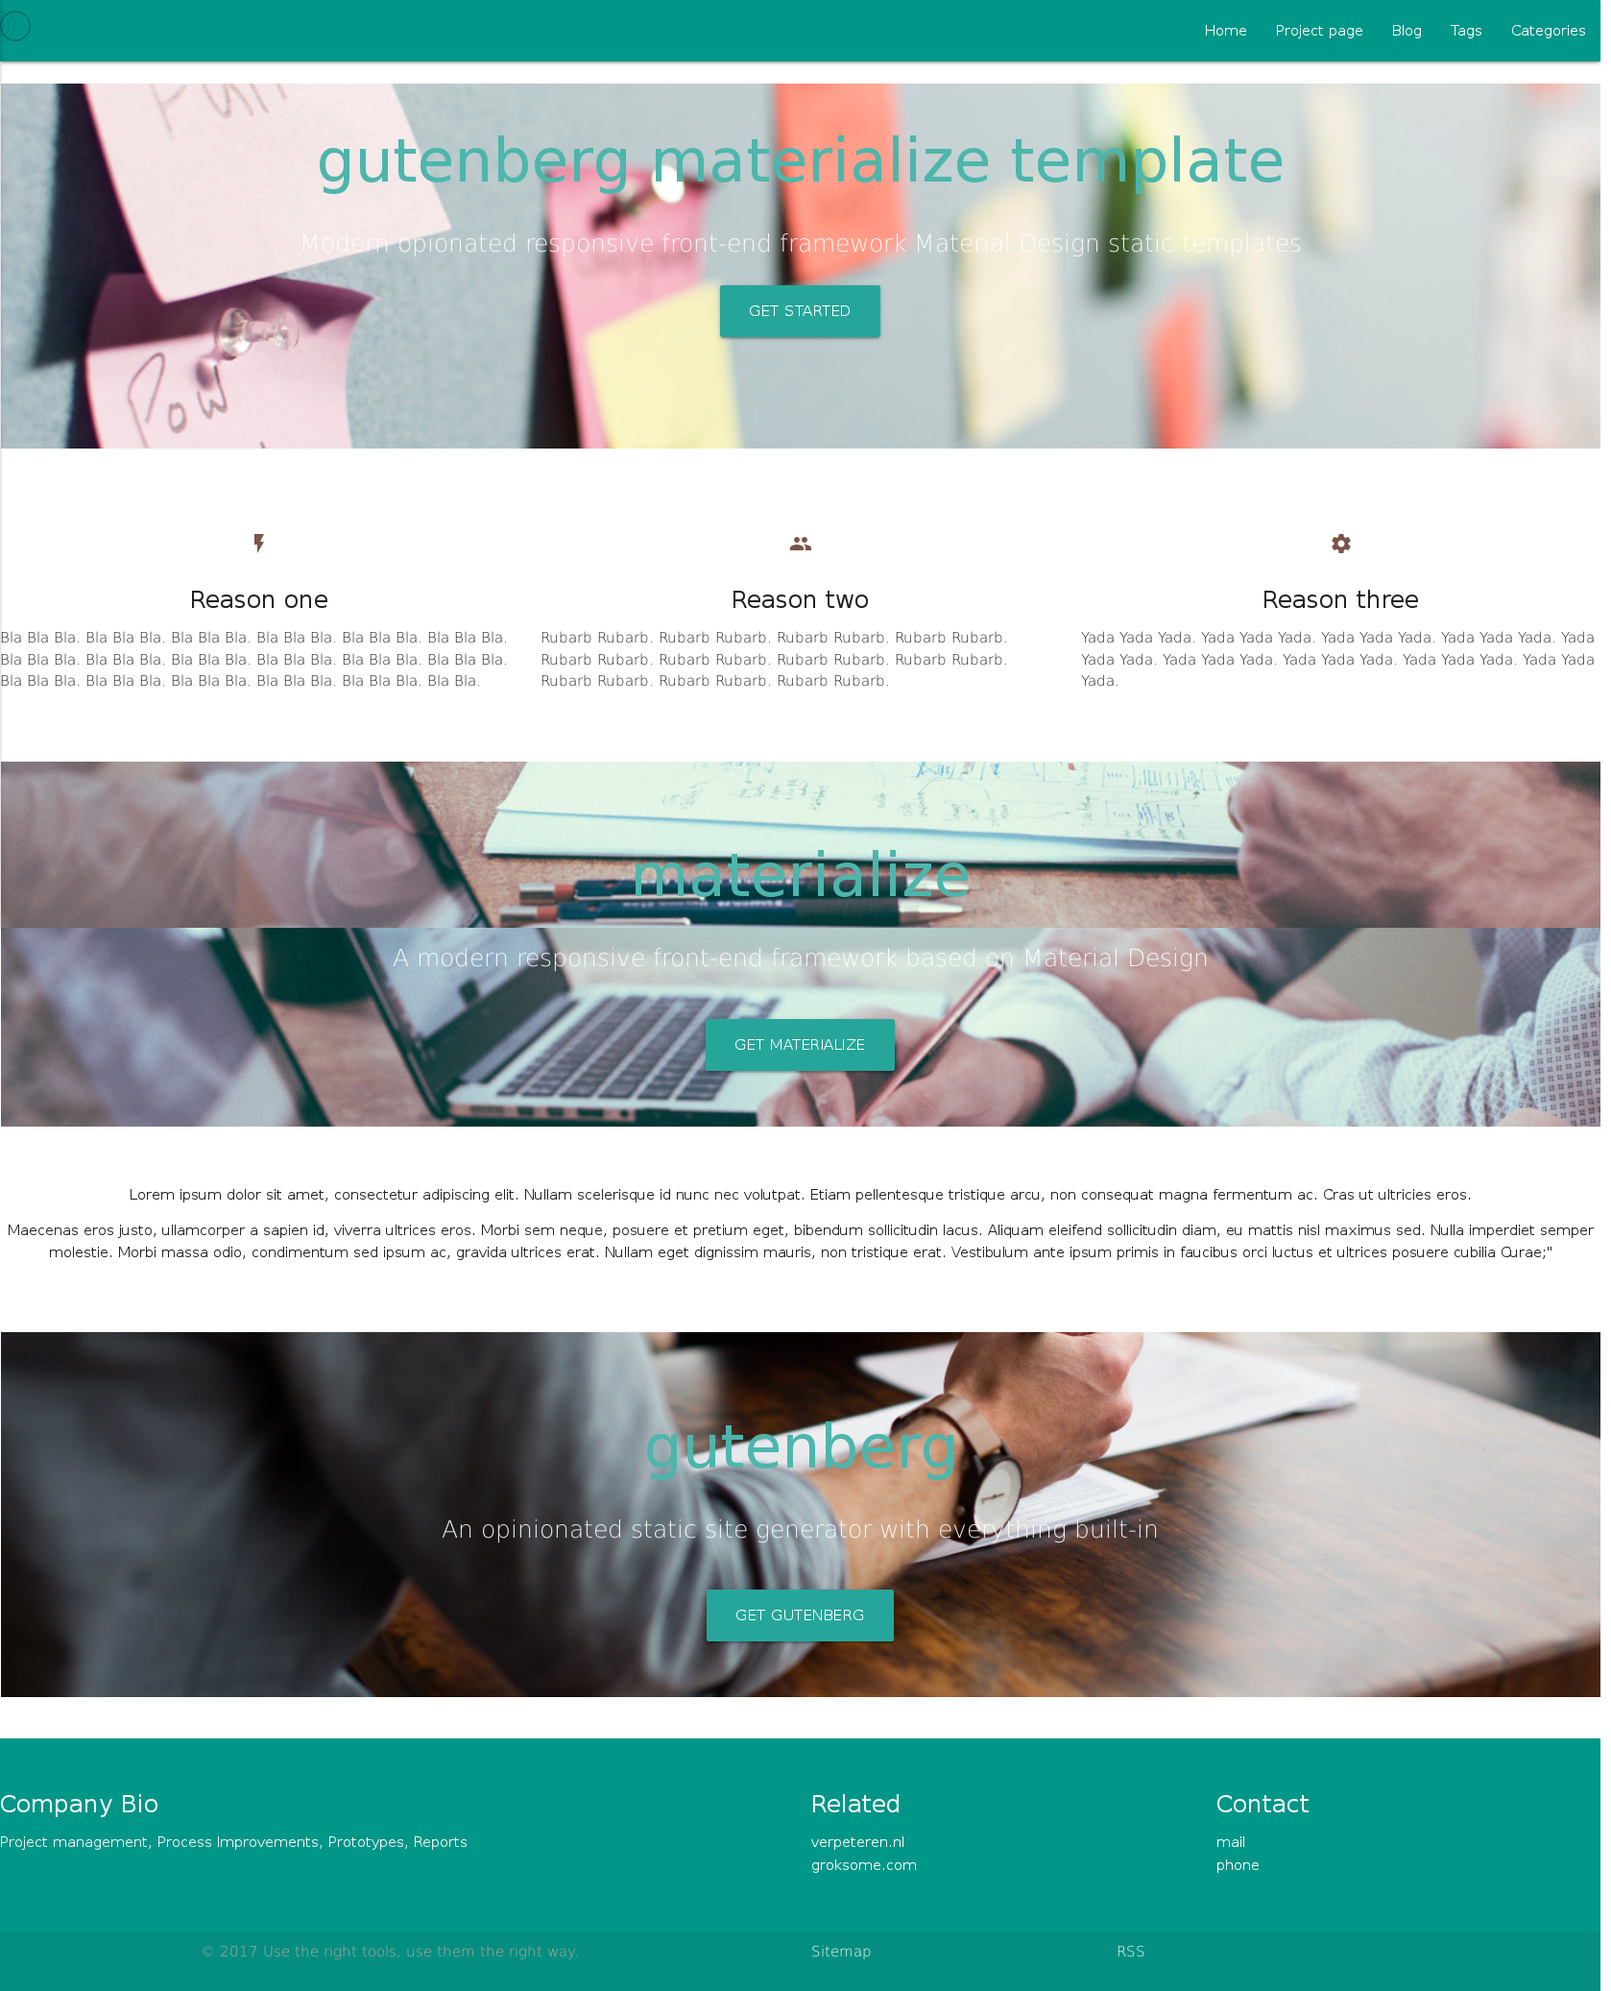
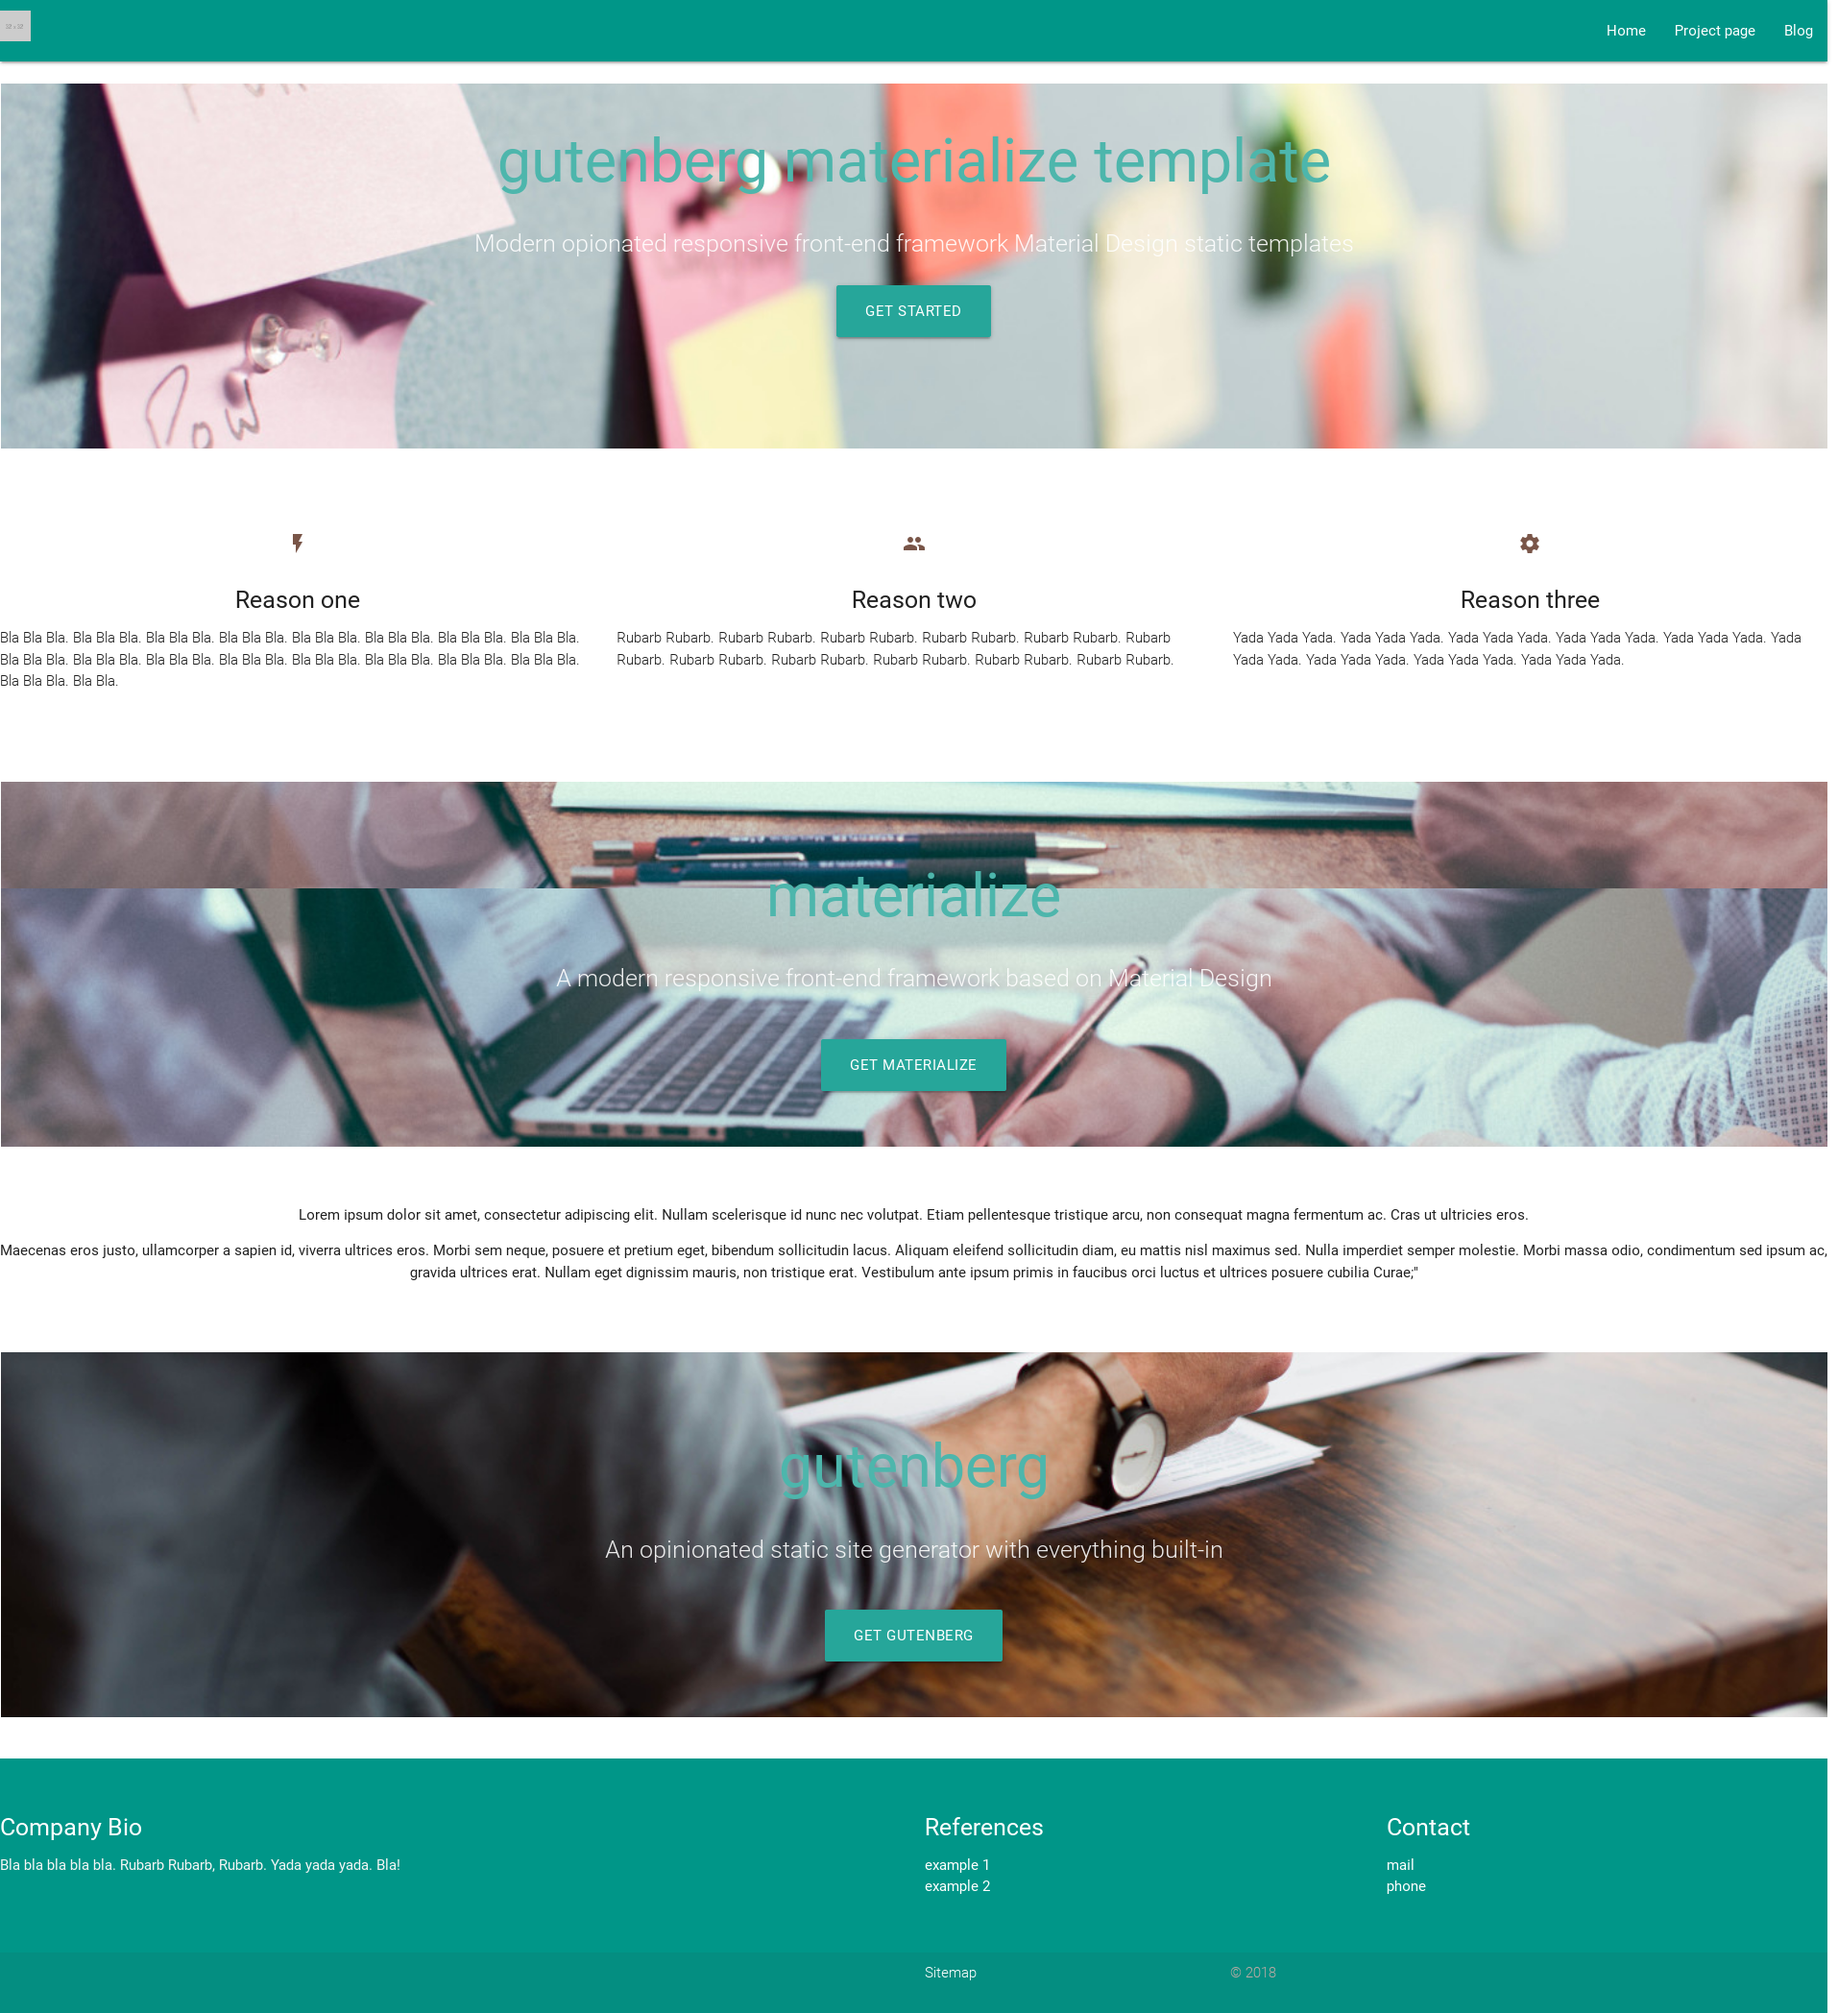
updated documentation and screenshot

diff --git a/README.md b/README.md
@@ -35,19 +35,19 @@ It's design goals are:
 
 ## Installation
 
-First, download this theme to your `themes` directory:
+### First, download this theme to your `themes` directory:
 
 ```bash
-$ cd themes
-$ git clone https://github.com/verpeteren/gutenberg-materialize.git
+$ git submodule add https://github.com/verpeteren/gutenberg-materialize.git themes/materialize
 ```
-and then enable it in your `config.toml`:
+
+### Second, enable it in your `config.toml`:
 
 ```toml
 theme = "materialize"
 ```
 
-Second: check your version:
+### Third, check your version:
 
 ```bash
 gutenberg --version
@@ -60,174 +60,40 @@ cp themes/materialize/templates/macro.html templates/macro.html
 echo "" > themes/materialize/templates/macro.html
 ```
 
-Third, set up the options that you want to use in your  `config.toml`. The available options are all present in `themes/materialize/theme.toml' and these are documented in  [Options - general ](#options-general) and [Options - index page ](#options-index-page)
+### Fourth, set up the options that you want to use in your  `config.toml`.
+
+The available options are all present in `themes/materialize/theme.toml' and these are documented in  [Options - general ](#options-general) and [Options - index page ](#options-index-page)
 
 ```bash
 vi config.toml themes/materialize/theme.toml
 ```
 
-Forth: finetune your templates by copy any of the `themes/materialize/templates/` into your `templates` folder.
+or if you are brave:
+
+```
+tail -n +`grep -n '\[extra\.materialize\]' themes/materialize/theme.toml |cut -d':' -f1` themes/materialize/theme.toml >> config.toml
+vi config.toml
+```
+
+### Fifth (optional): finetune your templates by copy any of the `themes/materialize/templates/` into your `templates` folder.
+
 ```bash
 cp themes/materialize/templates/macros.html templates/macros.html
 vi templates/macros.html
 ```
 
+### Sixth, write some content
 
-Fifth, Write some content: gutenberg has a lot of [clever options](https://www.getgutenberg.io/documentation/content/page/). The following files give you a head start with some tags, categories and [linked pages](#links)
+Gutenberg has a lot of [clever options](https://www.getgutenberg.io/documentation/content/page/). The following files give you a head start with some tags, categories and [linked pages](#links)
 
-````bash
-#!/bin/bash
+The file `generate_some_dummy_content.sh` can help the brave people that want to touch the ground running.
 
-mkdir -p content
+```bash
+./themes/materialize/generate_some_dummy_content.sh
 
-cat << EOF > content/paralax.md
-+++
-template="paralax.html"
-title = "Index"
-path = "/index"
-date = "2018-01-02"
-draft = false
+```
 
-[extra]
-
-[extra.paralax]
-
-[extra.paralax.images]
-
-[extra.paralax.images.one]
-file = "background1.jpg"
-alt = "Design thingking by Patrick Perkins"
-title = "gutenberg materialize template"
-subtitle = "Modern opionated responsive front-end framework Material Design static templates"
-cta = { url = "http://github.com/verpeteren/gutenberg-materialize", name = "get started", pulse = "pulse" }
-
-[extra.paralax.images.two]
-file = "background2.jpg"
-alt = "Brainstorming over paper by Helloquence"
-title = "materialize"
-subtitle = "A modern responsive front-end framework based on Material Design"
-cta = { url = "http://materializecss.com", name = "Get Materialize", pulse = "" }
-
-[extra.paralax.images.three]
-file = "background3.jpg"
-alt = "Shot before the shoot by Nik MacMillan"
-title = "gutenberg"
-subtitle = "An opinionated static site generator with everything built-in"
-cta = { url = "http://getgutenberg.io", name = "Get Gutenberg", pulse = ""}
-
-[extra.paralax.features]
-[extra.paralax.features.one]
-icon = "flash_on"
-title ="Reason one"
-text = "Bla Bla Bla. Bla Bla Bla. Bla Bla Bla. Bla Bla Bla. Bla Bla Bla. Bla Bla Bla. Bla Bla Bla. Bla Bla Bla. Bla Bla Bla. Bla Bla Bla. Bla Bla Bla. Bla Bla Bla. Bla Bla Bla. Bla Bla Bla. Bla Bla Bla. Bla Bla Bla. Bla Bla Bla. Bla Bla."
-
-[extra.paralax.features.two]
-icon = "group"
-title = "Reason two"
-text = "Rubarb Rubarb. Rubarb Rubarb. Rubarb Rubarb. Rubarb Rubarb. Rubarb Rubarb. Rubarb Rubarb. Rubarb Rubarb. Rubarb Rubarb. Rubarb Rubarb. Rubarb Rubarb. Rubarb Rubarb."
-
-[extra.paralax.features.three]
-icon =  "settings"
-title =  "Reason three"
-text = "Yada Yada Yada. Yada Yada Yada. Yada Yada Yada. Yada Yada Yada. Yada Yada Yada. Yada Yada Yada. Yada Yada Yada. Yada Yada Yada. Yada Yada Yada."
-
-+++
-Lorem ipsum dolor sit amet, consectetur adipiscing elit. Nullam scelerisque id nunc nec volutpat. Etiam pellentesque tristique arcu, non consequat magna fermentum ac. Cras ut ultricies eros.
-
-<!-- more -->
-Maecenas eros justo, ullamcorper a sapien id, viverra ultrices eros. Morbi sem neque, posuere et pretium eget, bibendum sollicitudin lacus. Aliquam eleifend sollicitudin diam, eu mattis nisl maximus sed. Nulla imperdiet semper molestie. Morbi massa odio, condimentum sed ipsum ac, gravida ultrices erat. Nullam eget dignissim mauris, non tristique erat. Vestibulum ante ipsum primis in faucibus orci luctus et ultrices posuere cubilia Curae;"
-
-EOF
-
-mkdir -p content/pages
-cat << EOF > content/pages/project.md
-+++
-title = "Project page"
-description = "Overview of some projects"
-path = "/project"
-date = "2018-01-02"
-tags=["article"]
-category="documentation"
-draft = false
-+++
-
-This is the teaser line.
-
-<!-- more -->
-
-This is the rest of the cruft.
-
-<p>direct <b>html</b> is possible<p>
-EOF
-
-mkdir -p content/blog
-cat << EOF > content/blog/_index.md
-+++
-# section front-matter: see https://www.getgutenberg.io/documentation/content/section/
-sort_by = "date"
-#redirect_to = "/"
-insert_anchor_links = "right"
-title = "blog"
-description = "glob('blog')"
-slug = "BlogBlogBlog"
-path = "/blog"
-+++
-EOF
-
-cat << EOF > content/blog/hello-gutenberg.md
-+++
-# page front matter: see https://www.getgutenberg.io/documentation/content/page/
-title = "Hello, Gutenberg!"
-date = "2018-01-02"
-tags = ["gutenberg"]
-category = "documentation"
-draft = false
-
-[extra]
-github = "https://github.com/verpeteren/gutenberg-paralax"
-+++
-
-This is the teaser line.
-
-<!-- more -->
-
-This is the rest of the cruft.
-
-If you enabled [syntax highlighting](https://www.getgutenberg.io/documentation/getting-started/configuration/#syntax-highlighting), the following should work:
-
-\`\`\`php
-$awesome_stuff = file_get_contents("http://nidium.com");
-\`\`\`
-
-As you can see, the github link also works by adding this to the `extra` settings in this page.
-EOF
-
-mkdir -p content/blog/another-post
-wget -q -O content/blog/another-post/missing_file.png http://placehold.it/30x130.png
-cat << EOF > content/blog/another-post/index.md
-+++
-title = "Another post"
-date = "2018-01-02"
-tags = ["gutenberg"]
-category = "documentation"
-aliases = ["/other-ffing-post"]
-draft = false
-
-[extra]
-+++
-
-This is the teaser line.
-
-<!-- more -->
-
-This is the rest of the cruft..
-
-Due to [Asset colocation](https://www.getgutenberg.io/documentation/content/overview/#assets-colocation), you can save your files in this subdirectory, right next to the `index.md`. E.G.
-`content/blog/another-post/[missing_file.png](missing_file.png)`.
-EOF
-````
-
-Sixth, Start the development server
+### Seventh, start the development server
 
 ```bash
 gutenberg serve
@@ -239,12 +105,12 @@ gutenberg serve
 
 #### Logo
 
-Set the `logo` to be used in the navbar (small) and in the side bar (big).
+Set the `logo` to be used in the navbar (small, about 32 px) and in the side bar (big, about 256 px).
 Probably obvious, but transparent logo's work best.
 
 ```toml
 [extra.materialize]
-logo = {small = "http://placehold.it/32x32", big = "http://placehold.it/240x240"}
+logo = {small = "http://placehold.it/32x32", big = "http://placehold.it/256x256"}
 ```
 
 #### Sidebar
@@ -254,12 +120,10 @@ Values can be "off", "left"
 
 > Please note: The [paralax index page](#options-index-page) template has a empty sidebar section. that is the reason why paralax has no sidebar.
 
-
 ```toml
 [extra.materialize]
 sidebar = "off"
 ```
-
 
 #### Landing page
 
@@ -267,7 +131,7 @@ Set the links to the `home` page. This works very well with the [paralax index p
 
 ```toml
 [extra.materialize]
-home = {url = "/index", name = "Home"}
+home = {url = "/paralax/", name = "Home"}
 ```
 
 #### Copyright
@@ -294,7 +158,9 @@ links = [
 
 #### Color scheme
 
-It is possible to tweak the some colors. It is not ideal, but it works. You can use the [standard color names of materialize](http://materializecss.com/color.html).
+It is possible to tweak the some colors. It is not ideal, but it works. 
+
+You can use the [standard color names of materialize](http://materializecss.com/color.html).
 
 ```toml
 [extra.materialize.colorscheme]
